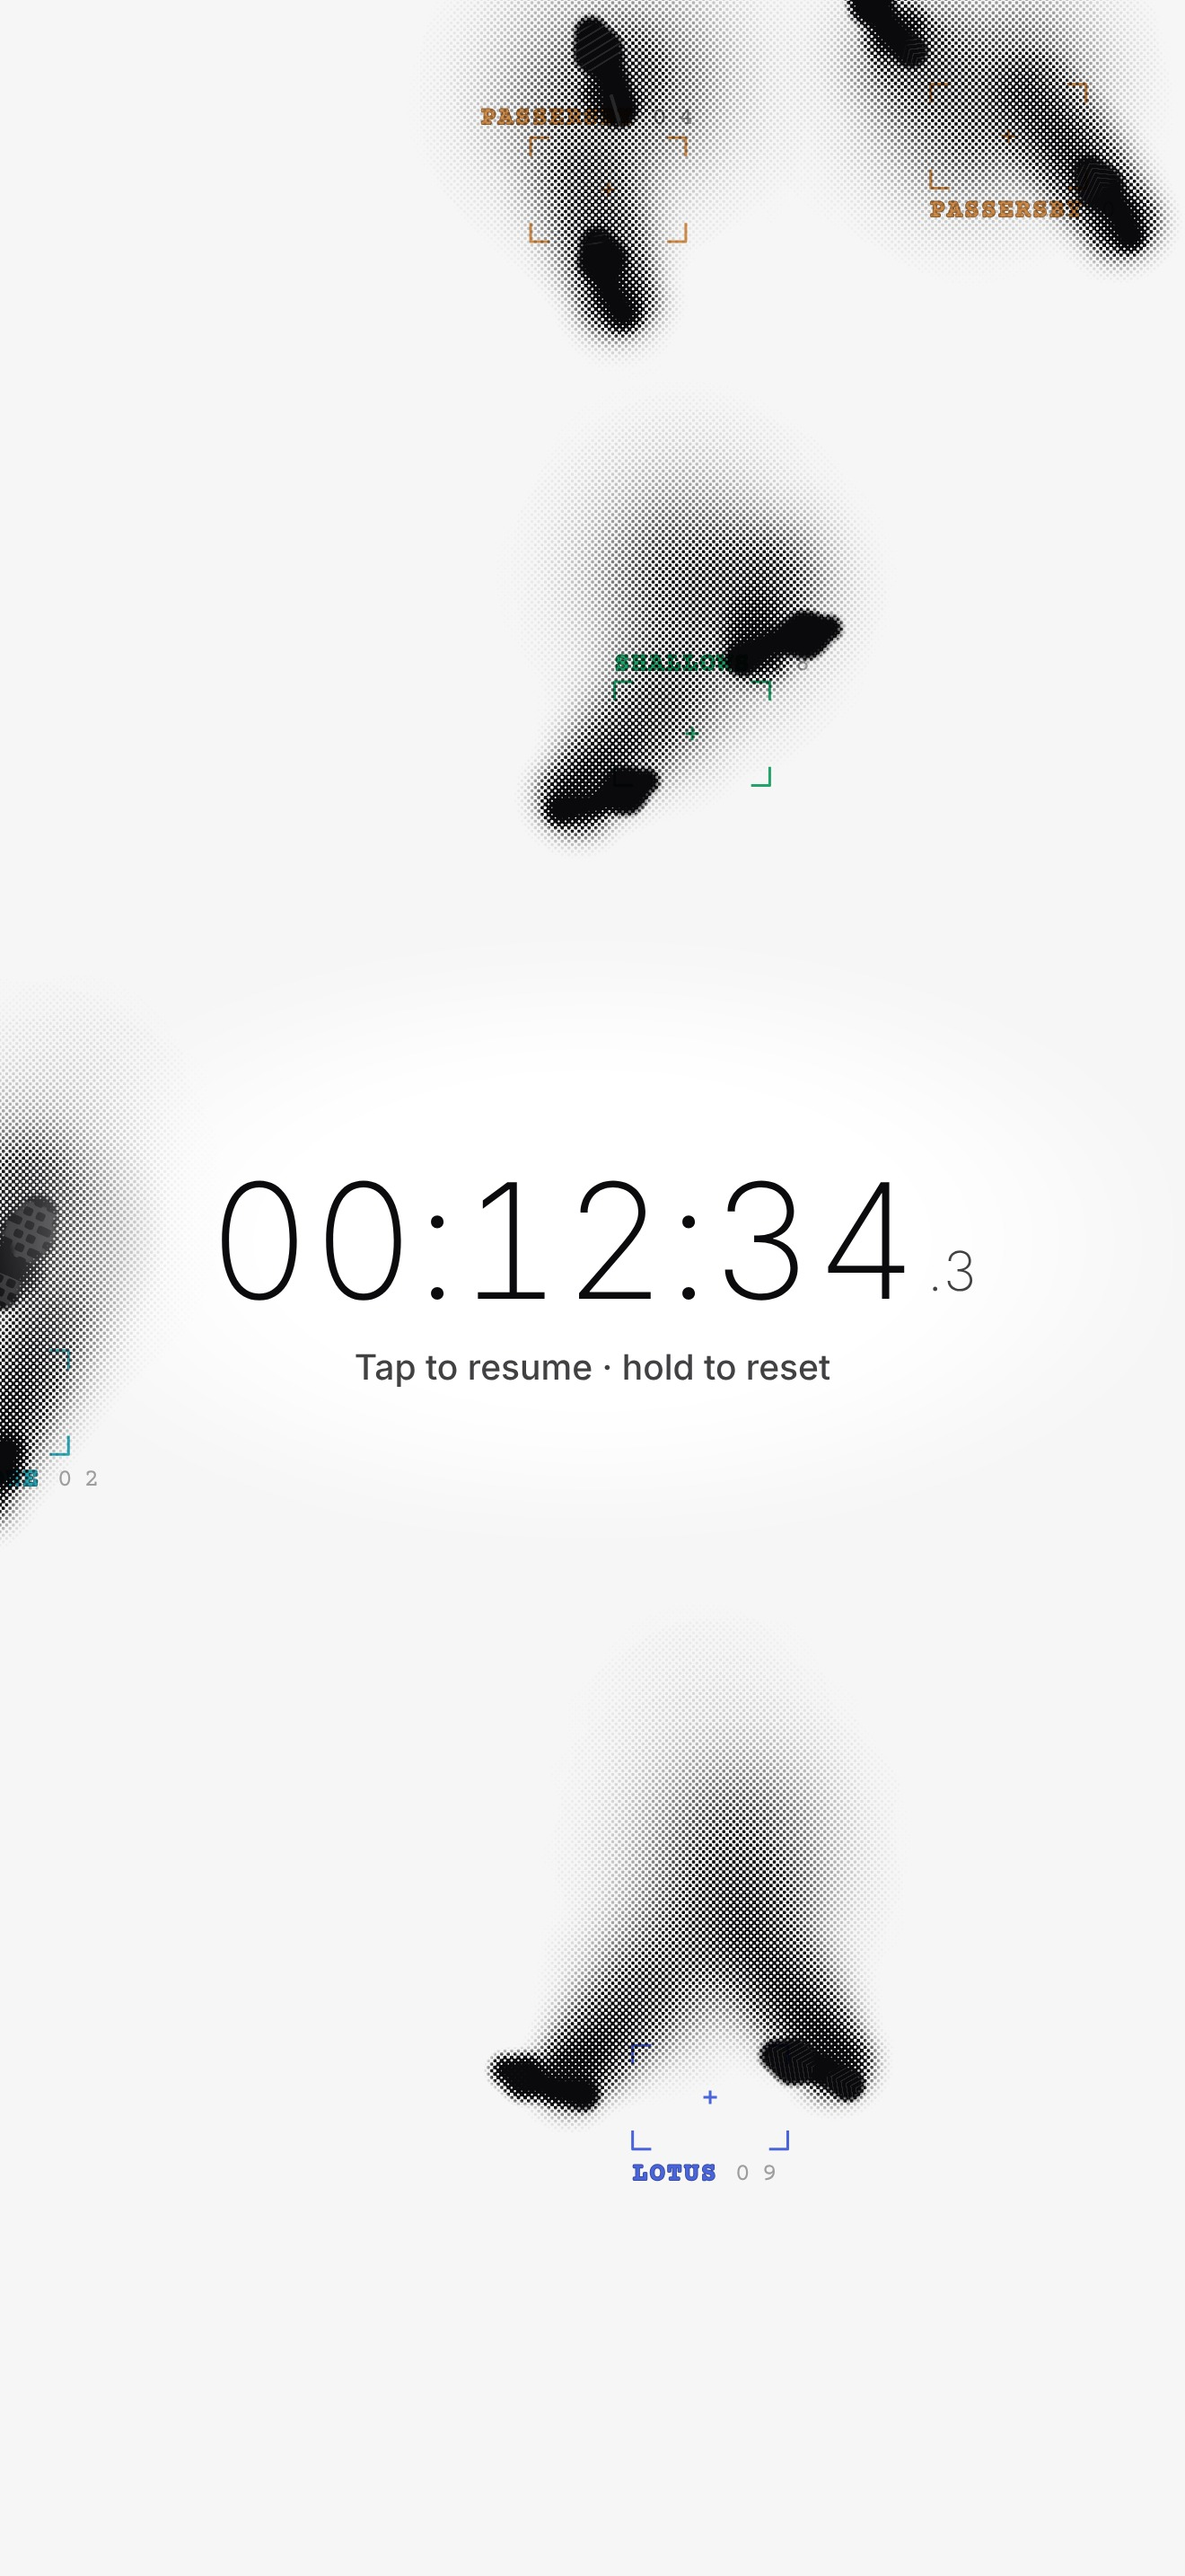
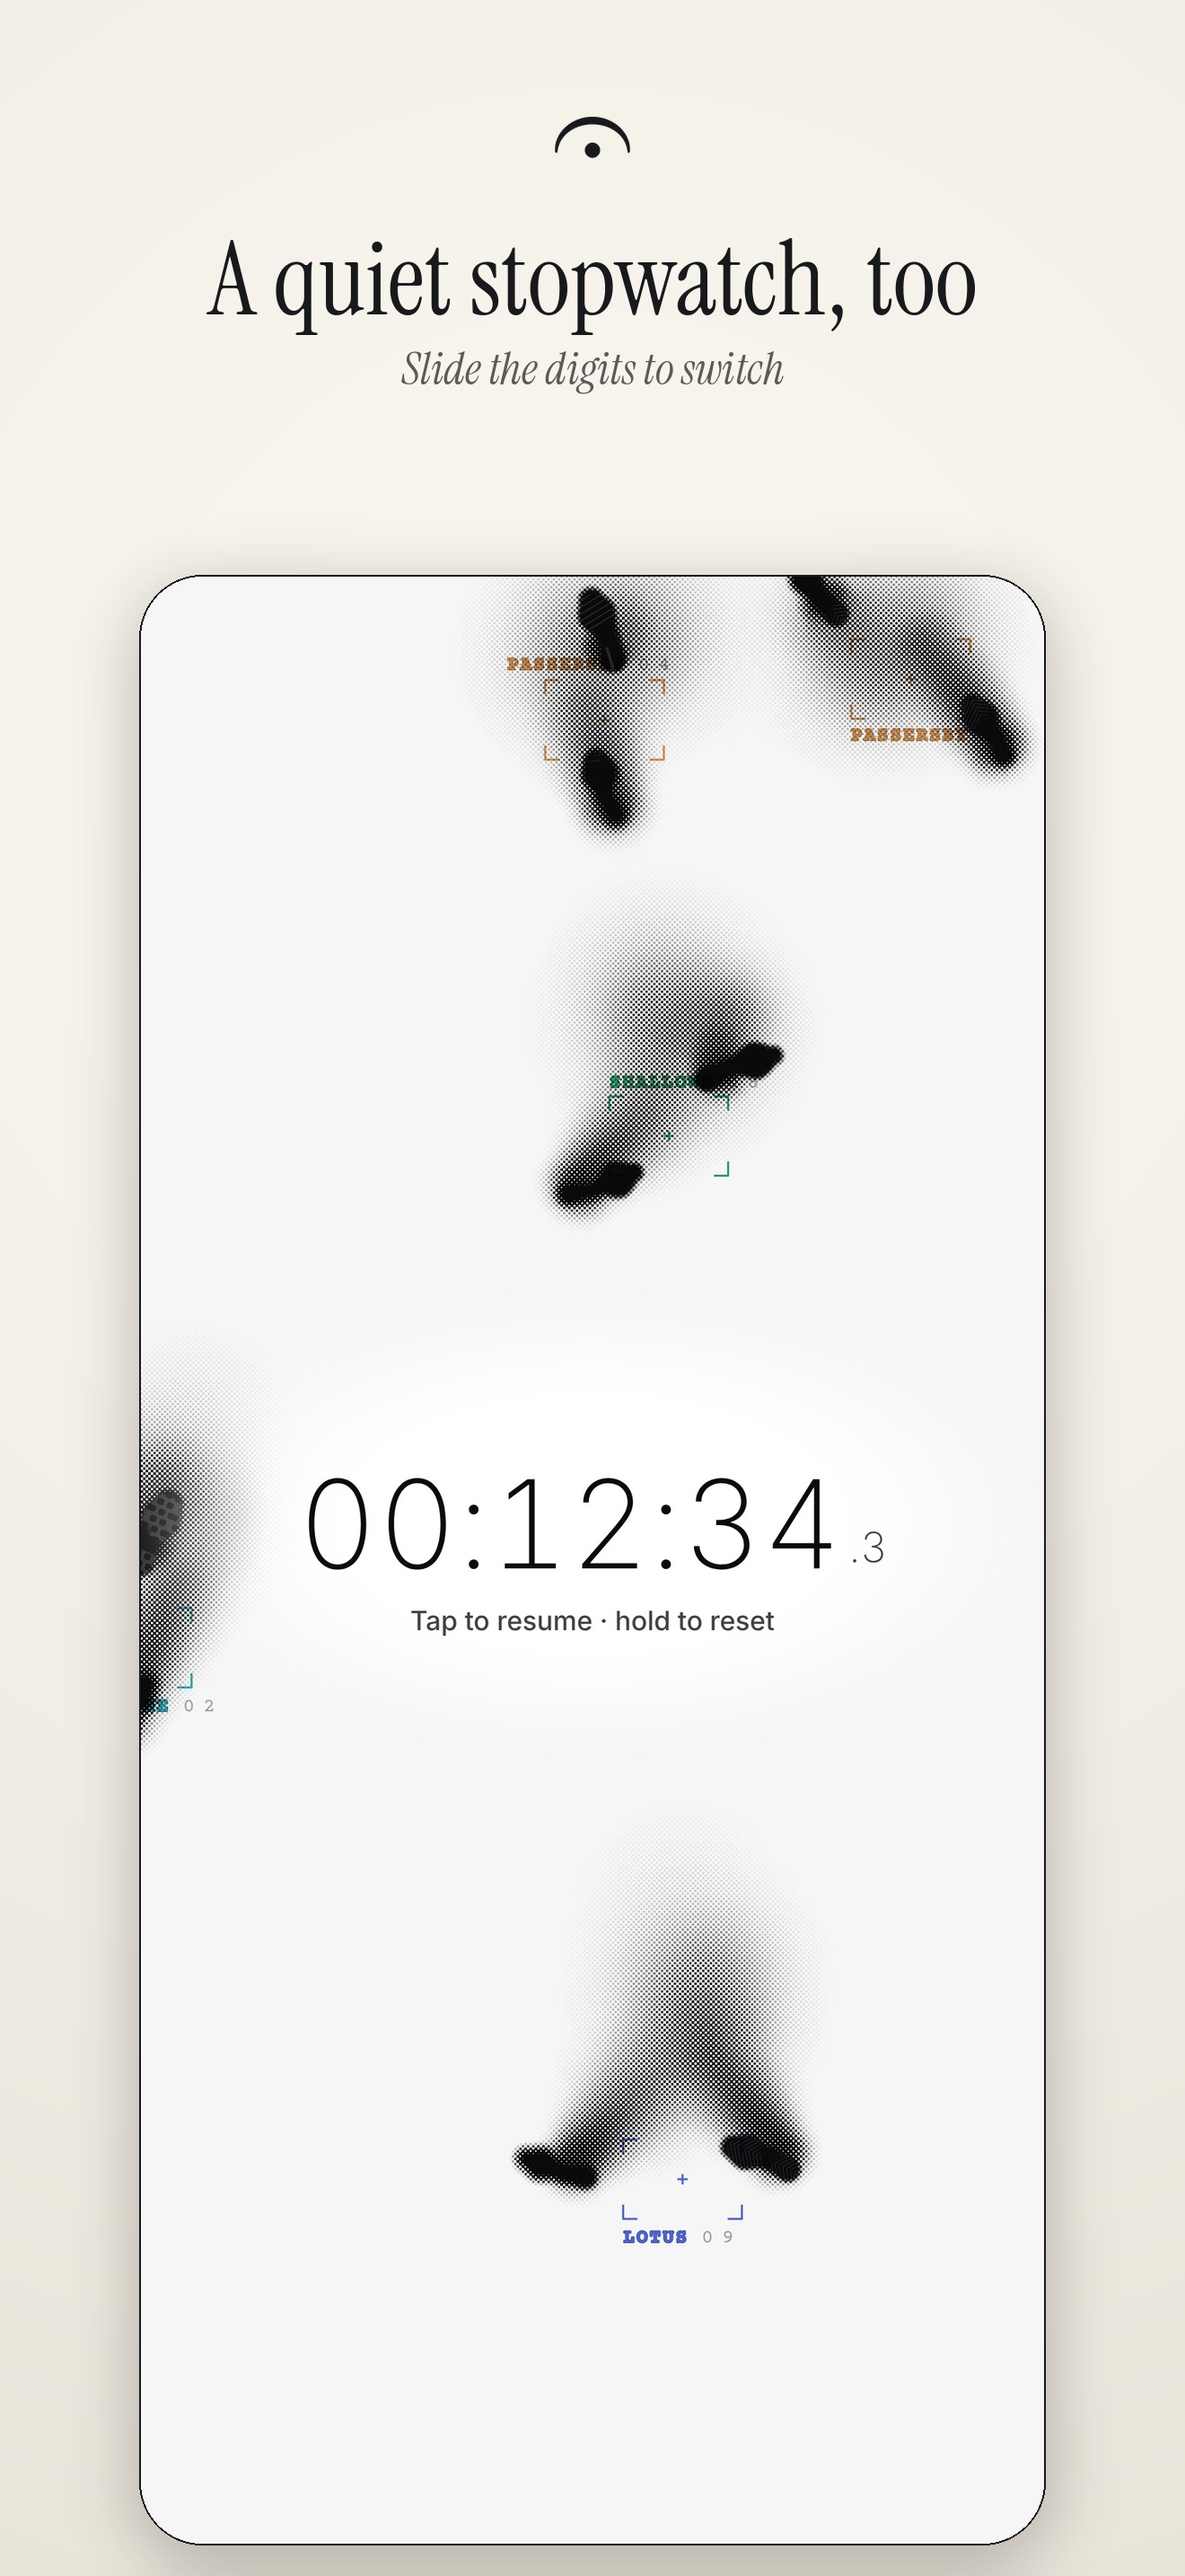
Store screenshots in Lento's look
The App Store screenshots are now framed like the icon: warm paper,
an ink fermata, a serif headline and a line beneath it (Japanese in
Noto Serif JP, English in Instrument Serif), and the app's own screen
below with rounded corners and a soft shadow. Headlines shrink to fit
if they would come near the edges. The plain captures move to
screenshots/raw/; store/tools/ holds the capture and framing scripts.

Claude-Session: https://claude.ai/code/session_01AaaFc7UVQRvV2WnDhYG1PU

diff --git a/ambient/store/tools/frame.py b/ambient/store/tools/frame.py
@@ -1,0 +1,98 @@
+# Store screenshots in Lento's look: the icon's paper and ink, a fermata, a headline,
+# and the app's own screen below.
+import math, os
+from PIL import Image, ImageDraw, ImageFilter, ImageFont
+ROOT = os.path.join(os.path.dirname(os.path.abspath(__file__)), '..', 'screenshots')
+SERIF_JP = os.environ.get('NOTO_SERIF_JP', 'NotoSerifJP.ttf')  # Noto Serif JP (variable), from Google Fonts
+IS = os.path.join(os.path.dirname(os.path.abspath(__file__)), '..', '..', 'node_modules', '@expo-google-fonts', 'instrument-serif') + '/'
+SERIF_EN = IS + '400Regular/InstrumentSerif_400Regular.ttf'
+SERIF_EN_IT = IS + '400Regular_Italic/InstrumentSerif_400Regular_Italic.ttf'
+INK = (24, 25, 29)
+SOFT = (92, 90, 86)
+CAPS = {
+  'ja': [
+    ('眺めていられる、置き時計', '鯉の泳ぐ夜の池、サメの浅瀬、通りすがりの足音'),
+    ('目盛りをなぞって、タイマー', 'よく使う時間は5つまで保存'),
+    ('ストップウォッチも、静かに', '数字を左右にスライドして切り替え'),
+    ('フォントも色も、好みのままに', '8つのフォントと、好きな色'),
+    ('どこにでも、どんな大きさでも', '1本指で動かし、2本指で大きさを'),
+  ],
+  'en': [
+    ('A clock you can simply watch', 'Koi at night, sharks in the shallows, passersby'),
+    ('Set the timer by touch', 'Keep up to five favourite lengths'),
+    ('A quiet stopwatch, too', 'Slide the digits to switch'),
+    ('Your font, your colour', 'Eight fonts and any colour you like'),
+    ('Anywhere, any size', 'Drag with one finger, pinch with two'),
+  ],
+}
+DEV = {
+  'iphone-6.9': dict(W=1320, H=2868, head=92, sub=44, shotW=1010, top=640, radius=70, mark=96),
+  'ipad-13': dict(W=2064, H=2752, head=104, sub=50, shotW=1560, top=650, radius=40, mark=110),
+}
+
+def paper(W, H):
+    S = 2; w, h = W // S, H // S
+    im = Image.new('RGB', (w, h), (226, 221, 210)); d = ImageDraw.Draw(im)
+    c0, c1 = (250, 247, 240), (228, 223, 212)
+    for i in range(200, 0, -1):
+        t = i / 200; r = max(w, h) * 0.9 * t; k = t ** 1.3
+        col = tuple(int(c0[j] + (c1[j] - c0[j]) * k) for j in range(3))
+        d.ellipse([w / 2 - r, h * 0.3 - r, w / 2 + r, h * 0.3 + r], fill=col)
+    return im.filter(ImageFilter.GaussianBlur(20)).resize((W, H), Image.LANCZOS)
+
+def fermata(size, color):
+    S = 4; W = size * S
+    lay = Image.new('RGBA', (W, W), (0, 0, 0, 0)); d = ImageDraw.Draw(lay)
+    R = W * 0.42; t0 = W * 0.085; ax, ay = W / 2, W * 0.5 + R * 0.32
+    for i in range(401):
+        a = math.pi + math.pi * i / 400; u = abs(i / 400 - 0.5) * 2
+        th = t0 * (1 - 0.72 * u ** 1.6)
+        x = ax + R * math.cos(a); y = ay + R * math.sin(a) * 0.86
+        d.ellipse([x - th / 2, y - th / 2, x + th / 2, y + th / 2], fill=color)
+    r = W * 0.088; d.ellipse([ax - r, ay - r * 1.2, ax + r, ay + r * 0.8], fill=color)
+    return lay.resize((size, size), Image.LANCZOS)
+
+def font(lang, size, kind):
+    if lang == 'ja':
+        f = ImageFont.truetype(SERIF_JP, size)
+        try: f.set_variation_by_axes([600 if kind == 'head' else 400])
+        except Exception: pass
+        return f
+    return ImageFont.truetype(SERIF_EN if kind == 'head' else SERIF_EN_IT, int(size * (1.25 if kind == 'head' else 1.15)))
+
+def centred(d, W, y, text, lang, size, kind, fill):
+    # As big as asked, or smaller if that would come within 8 % of the sides.
+    f = font(lang, size, kind)
+    while d.textlength(text, font=f) > W * 0.84 and size > 20:
+        size -= 2
+        f = font(lang, size, kind)
+    w = d.textlength(text, font=f)
+    d.text(((W - w) / 2, y), text, font=f, fill=fill)
+
+for dev, p in DEV.items():
+    for lang in ('ja', 'en'):
+        src = f'{ROOT}/raw/{dev}/{lang}'
+        out = f'{ROOT}/{dev}/{lang}'
+        os.makedirs(out, exist_ok=True)
+        for i, name in enumerate(sorted(os.listdir(src))):
+            W, H = p['W'], p['H']
+            im = paper(W, H).convert('RGBA')
+            m = p['mark']
+            im.alpha_composite(fermata(m, INK + (255,)), ((W - m) // 2, int(p['top'] * 0.17)))
+            d = ImageDraw.Draw(im)
+            head, sub = CAPS[lang][i]
+            centred(d, W, int(p['top'] * 0.37), head, lang, p['head'], 'head', INK)
+            centred(d, W, int(p['top'] * 0.37) + int(p['head'] * 1.55), sub, lang, p['sub'], 'sub', SOFT)
+            shot = Image.open(f'{src}/{name}').convert('RGB')
+            sw = p['shotW']; sh = round(shot.height * sw / shot.width)
+            shot = shot.resize((sw, sh), Image.LANCZOS)
+            x, y = (W - sw) // 2, p['top']
+            mask = Image.new('L', (sw, sh), 0)
+            ImageDraw.Draw(mask).rounded_rectangle([0, 0, sw - 1, sh - 1], radius=p['radius'], fill=255)
+            shadow = Image.new('RGBA', (W, H), (0, 0, 0, 0))
+            ImageDraw.Draw(shadow).rounded_rectangle([x, y + 18, x + sw, y + sh + 18], radius=p['radius'], fill=(40, 34, 24, 70))
+            im.alpha_composite(shadow.filter(ImageFilter.GaussianBlur(36)))
+            im.paste(shot, (x, y), mask)
+            ImageDraw.Draw(im).rounded_rectangle([x, y, x + sw - 1, y + sh - 1], radius=p['radius'], outline=(24, 25, 29, 40), width=2)
+            im.convert('RGB').save(f'{out}/{name}', quality=92)
+        print(dev, lang, 'ok')

diff --git a/ambient/store/metadata.md b/ambient/store/metadata.md
@@ -153,13 +153,25 @@ The app keeps the screen awake on purpose, so it can be used as a desk clock.
 
 ## スクリーンショット
 
-`store/screenshots/` にあります（JPEG）。
+`store/screenshots/` にあります（JPEG）。App Store Connect にはこちらを入れます。
 
 | 枠 | サイズ | フォルダ |
 | --- | --- | --- |
 | iPhone 6.9インチ | 1320 × 2868 | `iphone-6.9/ja`, `iphone-6.9/en` |
 | iPad 13インチ | 2064 × 2752 | `ipad-13/ja`, `ipad-13/en` |
 
-1. 鯉と時計 2. サメとタイマー（目盛りと保存） 3. 通りすがりとストップウォッチ 4. 設定 5. 位置と大きさの編集
+アイコンと同じ生成りの紙とインクで、上にフェルマータと見出し、下にアプリの画面を置いています。
 
-ウェブ版から撮ったものです。実機と見た目がほぼ同じであることは確認していますが、ぼかしの質感などは実機のほうがきれいです。実機で撮り直す場合は、iPhone 16 Pro Max / 17 Pro Max（6.9インチ）と iPad Pro 13インチのシミュレーターか実機で撮ってください。
+| # | 画面 | 見出し（日本語） | 見出し（英語） |
+| --- | --- | --- | --- |
+| 1 | 鯉と時計 | 眺めていられる、置き時計 | A clock you can simply watch |
+| 2 | サメとタイマー | 目盛りをなぞって、タイマー | Set the timer by touch |
+| 3 | 通りすがりとストップウォッチ | ストップウォッチも、静かに | A quiet stopwatch, too |
+| 4 | 設定 | フォントも色も、好みのままに | Your font, your colour |
+| 5 | 位置と大きさの編集 | どこにでも、どんな大きさでも | Anywhere, any size |
+
+アプリの画面だけの元画像は `screenshots/raw/` にあります。ウェブ版から撮ったもので、ぼかしの質感などは実機のほうがきれいです。
+
+作り直すときは、次の2つを順に実行します。
+1. ウェブ版を書き出して `localhost:8765` で配信し、`node store/tools/shots.cjs` を実行すると、元画像（`raw/`）を撮ります。
+2. `NOTO_SERIF_JP=<Noto Serif JP の ttf> python3 store/tools/frame.py` を実行すると、見出し付きに組みます。見出しの文言は `frame.py` の中にあります。
